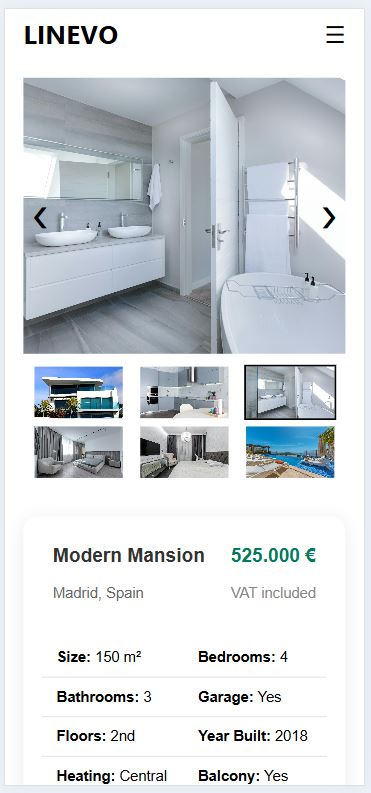
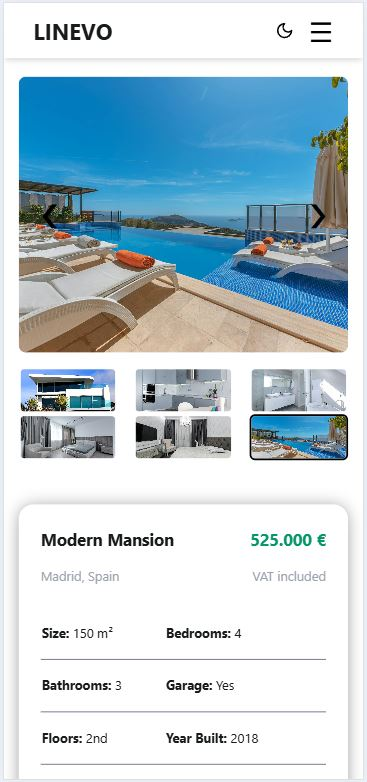
navmenu & README update

diff --git a/src/components/Navbar.jsx b/src/components/Navbar.jsx
@@ -1,6 +1,7 @@
-import { useState, useEffect } from "react";
+import { useState } from "react";
 import { Link } from "react-router-dom";
 import { Sun, Moon } from "lucide-react";
+import { AnimatePresence, motion } from "framer-motion";
 
 function Navbar({ darkMode, toggleDarkMode }) {
   const [isOpen, setIsOpen] = useState(false);
@@ -67,23 +68,35 @@ function Navbar({ darkMode, toggleDarkMode }) {
         </div>
       </div>
 
-      {isOpen && (
-        <div
-          className={`md:hidden mt-2 p-2 flex flex-row justify-around items-center gap-6 text-sm ${
-            darkMode ? "text-white" : "text-sotet"
-          }`}
-        >
-          <Link to="/browse" className="font-bold">
-            House
-          </Link>
-          <Link to="/browse" className="font-bold">
-            Apartment
-          </Link>
-          <Link to="/product" className="font-bold">
-            Buy Now
-          </Link>
-        </div>
-      )}
+      <AnimatePresence>
+        {isOpen && (
+          <motion.div
+            key="mobile-menu"
+            initial={{ opacity: 0, y: -20 }}
+            animate={{ opacity: 1, y: 0 }}
+            exit={{ opacity: 0, y: -20 }}
+            transition={{ duration: 0.3 }}
+            className={`absolute left-0 right-0 top-full md:hidden p-4 flex flex-col items-center gap-6 text-sm shadow-lg overflow-hidden z-40 ${
+              darkMode ? "bg-sotet text-white" : "bg-white text-sotet"
+            }`}
+          >
+            <Link to="/browse" className="font-bold">
+              House
+            </Link>
+            <Link to="/browse" className="font-bold">
+              Apartment
+            </Link>
+            <Link
+              to="/product"
+              className={`px-4 py-2 rounded-md ${
+                darkMode ? "bg-white text-black" : "bg-sotet text-white"
+              }`}
+            >
+              Buy Now
+            </Link>
+          </motion.div>
+        )}
+      </AnimatePresence>
     </header>
   );
 }

diff --git a/src/components/Featured.jsx b/src/components/Featured.jsx
@@ -15,8 +15,8 @@ function Featured({ darkMode }) {
         <div
           className={`${
             darkMode
-              ? "bg-sotet drop-shadow-[0px_0px_4px_rgba(255,255,255,0.4)]"
-              : "bg-gray-50 drop-shadow-[0px_0px_8px_rgba(0,0,0,0.3)]"
+              ? "bg-sotet"
+              : "bg-white drop-shadow-[0px_0px_8px_rgba(0,0,0,0.3)]"
           } rounded-xl p-5 text-center`}
         >
           <img
@@ -54,8 +54,8 @@ function Featured({ darkMode }) {
         <div
           className={`${
             darkMode
-              ? "bg-sotet drop-shadow-[0px_0px_4px_rgba(255,255,255,0.4)]"
-              : "bg-gray-50 drop-shadow-[0px_0px_8px_rgba(0,0,0,0.3)]"
+              ? "bg-sotet"
+              : "bg-white drop-shadow-[0px_0px_8px_rgba(0,0,0,0.3)]"
           } rounded-xl p-5 text-center`}
         >
           <img
@@ -93,8 +93,8 @@ function Featured({ darkMode }) {
         <div
           className={`${
             darkMode
-              ? "bg-sotet drop-shadow-[0px_0px_4px_rgba(255,255,255,0.4)]"
-              : "bg-gray-50 drop-shadow-[0px_0px_8px_rgba(0,0,0,0.3)]"
+              ? "bg-sotet"
+              : "bg-white drop-shadow-[0px_0px_8px_rgba(0,0,0,0.3)]"
           } rounded-xl p-5 text-center`}
         >
           <img

diff --git a/README.md b/README.md
@@ -40,8 +40,13 @@
     <img src="public/img/git3.JPG" alt="" srcset="">
     <p align="justify">When a specific property is selected, the user is taken to the detailed view page, where all available information is presented as thoroughly as possible, including images and descriptions. One of the most important elements is the image gallery, which allows users to navigate between photos using left and right arrows or by clicking on the thumbnail images below. A subtle fade animation enhances the photo transitions for a smoother user experience. <br><br>
         Below the gallery, all essential property details are displayed, with the most important ones highlighted using larger font sizes. A table layout is used to make the information easier and quicker to understand. Additionally, an embedded Google Map helps users quickly locate the property, and a brief description provides further context about the area.</p>
+     <h2>Light/Dark Theme</h2>
+    <img src="public/img/git16.JPG" alt="" srcset="">
+    <img src="public/img/git17.JPG" alt="" srcset="">
+    <p align="justify">A fully functional dark/light mode toggle has been implemented across the entire application. The selected mode is stored in localStorage to persist between sessions, and dynamically applied using Tailwind CSS classes. Framer Motion is used to smoothly animate the mobile navigation menu when toggled, ensuring a polished user experience.</p> 
     <h2>Responsive Design</h2>
     <img src="public/img/git13.png" alt="" srcset="">
+    <img src="public/img/git14.png" alt="" srcset="">
     <p align="justify">The website is, of course, fully responsive, ensuring that it looks and functions perfectly across all devices — something that's essential in today's digital world. The navigation bar features a dropdown menu on smaller screens, while the rest of the content is displayed in a vertical layout. Naturally, all features remain fully accessible and animated, just like on larger, horizontal devices.</p>
 
     
